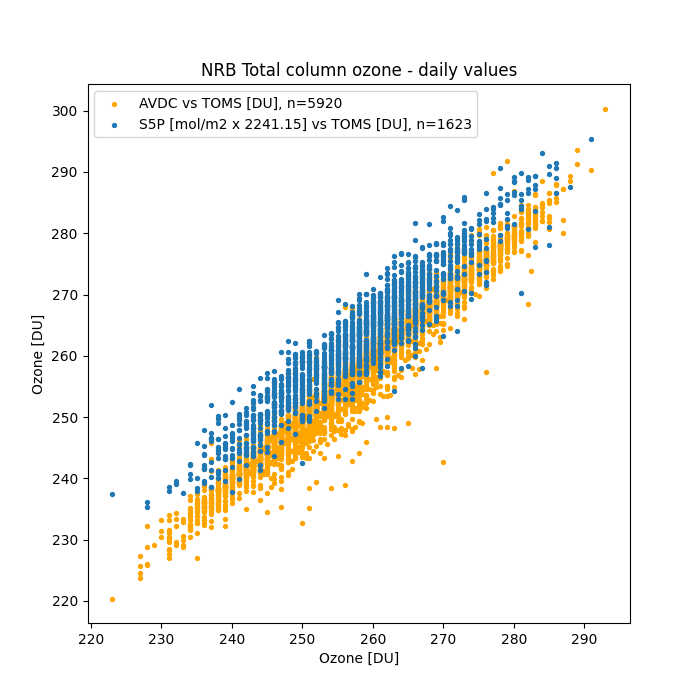
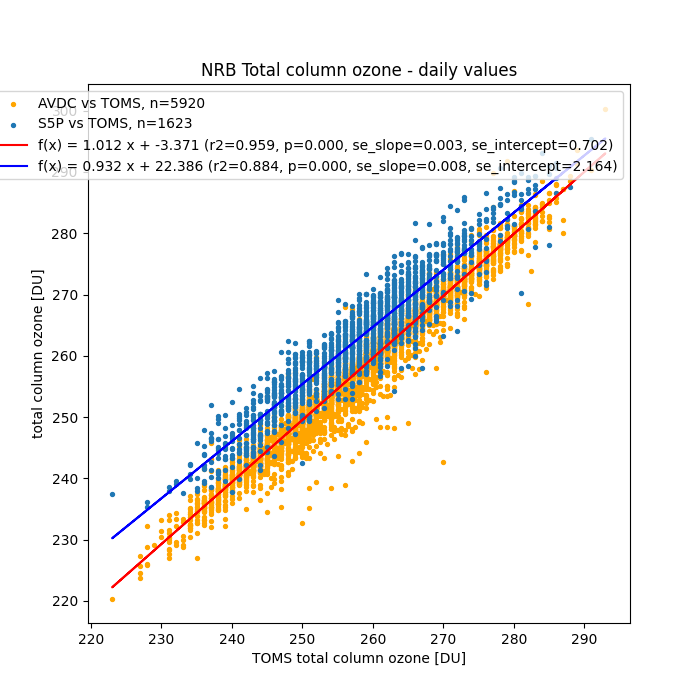
clean-up, linreg satellites added

diff --git a/processing/satellites.py b/processing/satellites.py
@@ -987,7 +987,7 @@ def plot_time_series(df, collection, variable, save: bool=True, target: str=None
         fig.savefig(fname=os.path.join(target, f"{variable}.png"), bbox_inches='tight')
 
 
-def process_collection(collection, variable, append=True, verbosity: int=0):
+def process_gee_collection(collection, variable, append=True, verbosity: int=0):
     """_summary_
 
     Args:
@@ -1127,7 +1127,8 @@ def download_avdc_omi_station_data(product: str, url: str='https://avdc.gsfc.nas
 
         # The header row is the 2nd row after the metadata
         # Since it is in such a poor format, we provide it directly
-        columns = ['Datetime','MJD2000','Year','DOY','sec. (UT)','Orbit','CTP','Lat.','Lon.','Dist.','SZA','Ozone','O3blwCld','Surf. P.','Cld. P.','Cld. F.','Ref.','AI','SOI']
+        columns = ['Datetime','MJD2000','Year','DOY','sec. (UT)','Orbit','CTP','Lat.','Lon.','Dist.',
+                   'SZA','Ozone','O3blwCld','Surf. P.','Cld. P.','Cld. F.','Ref.','AI','SOI']
 
 
         # Preprocess the data to replace multiple spaces with a single comma
